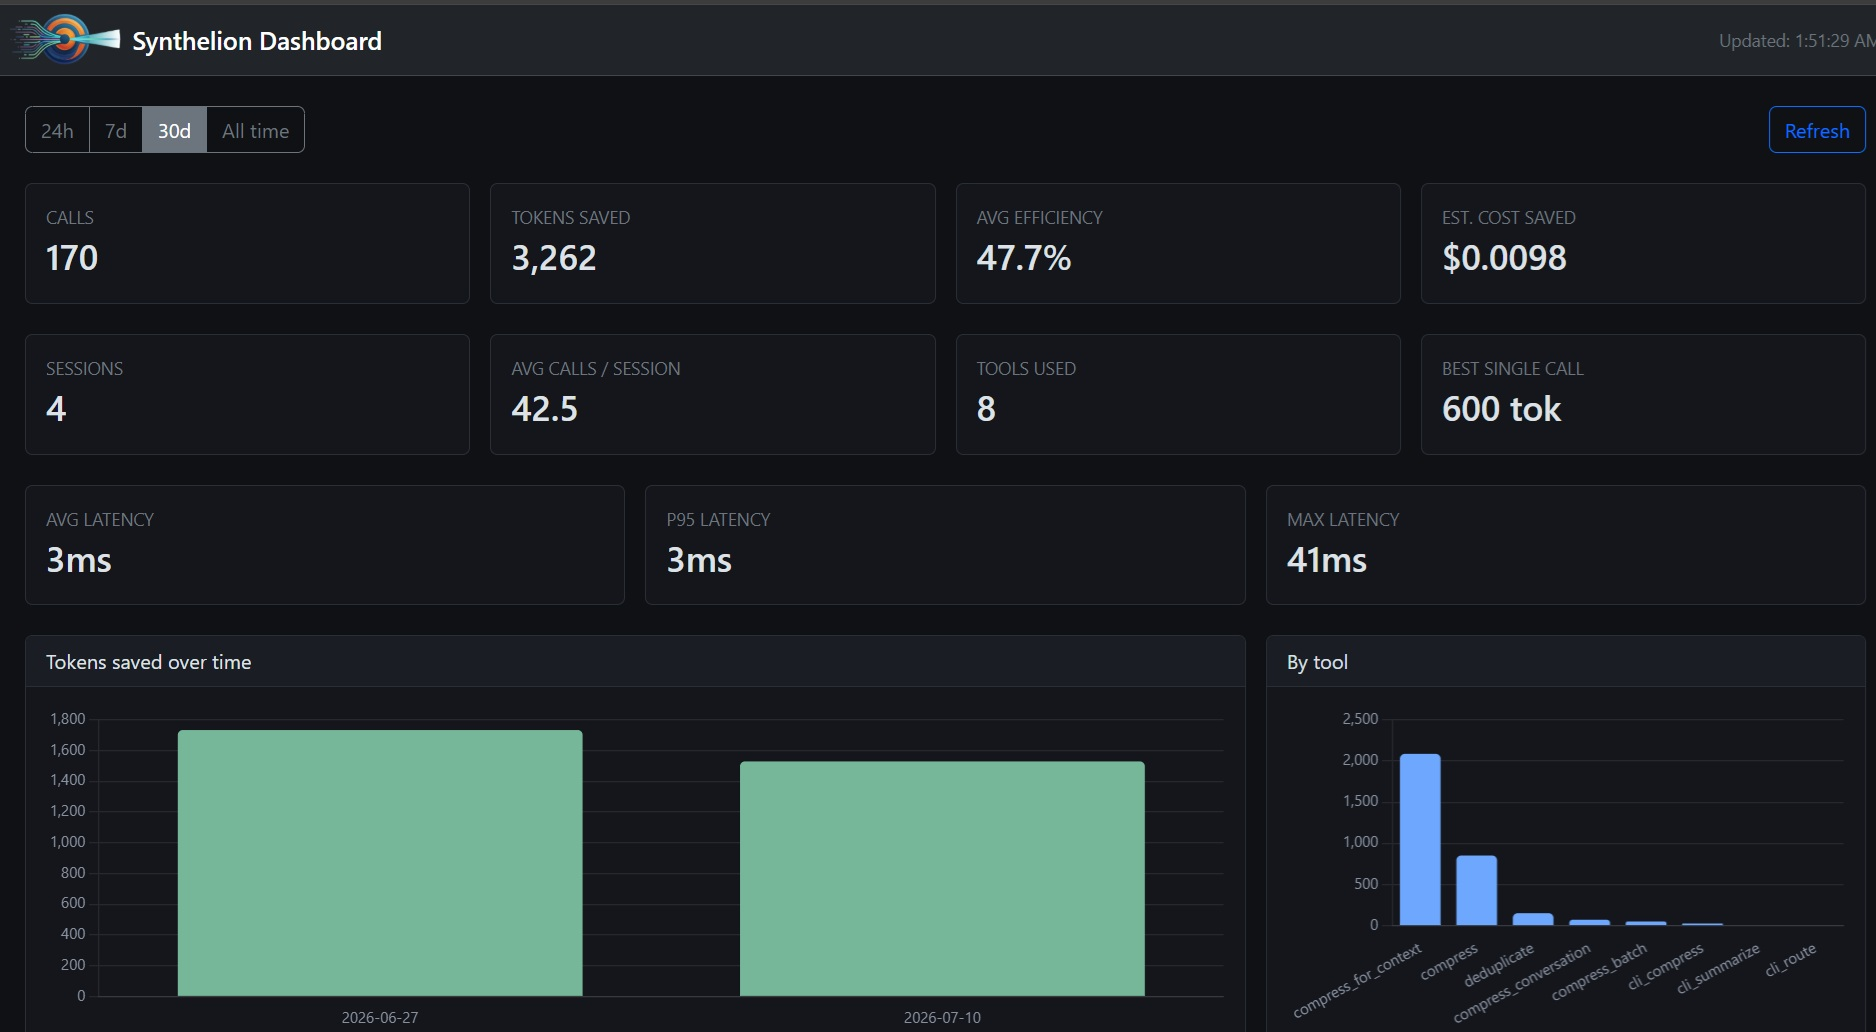
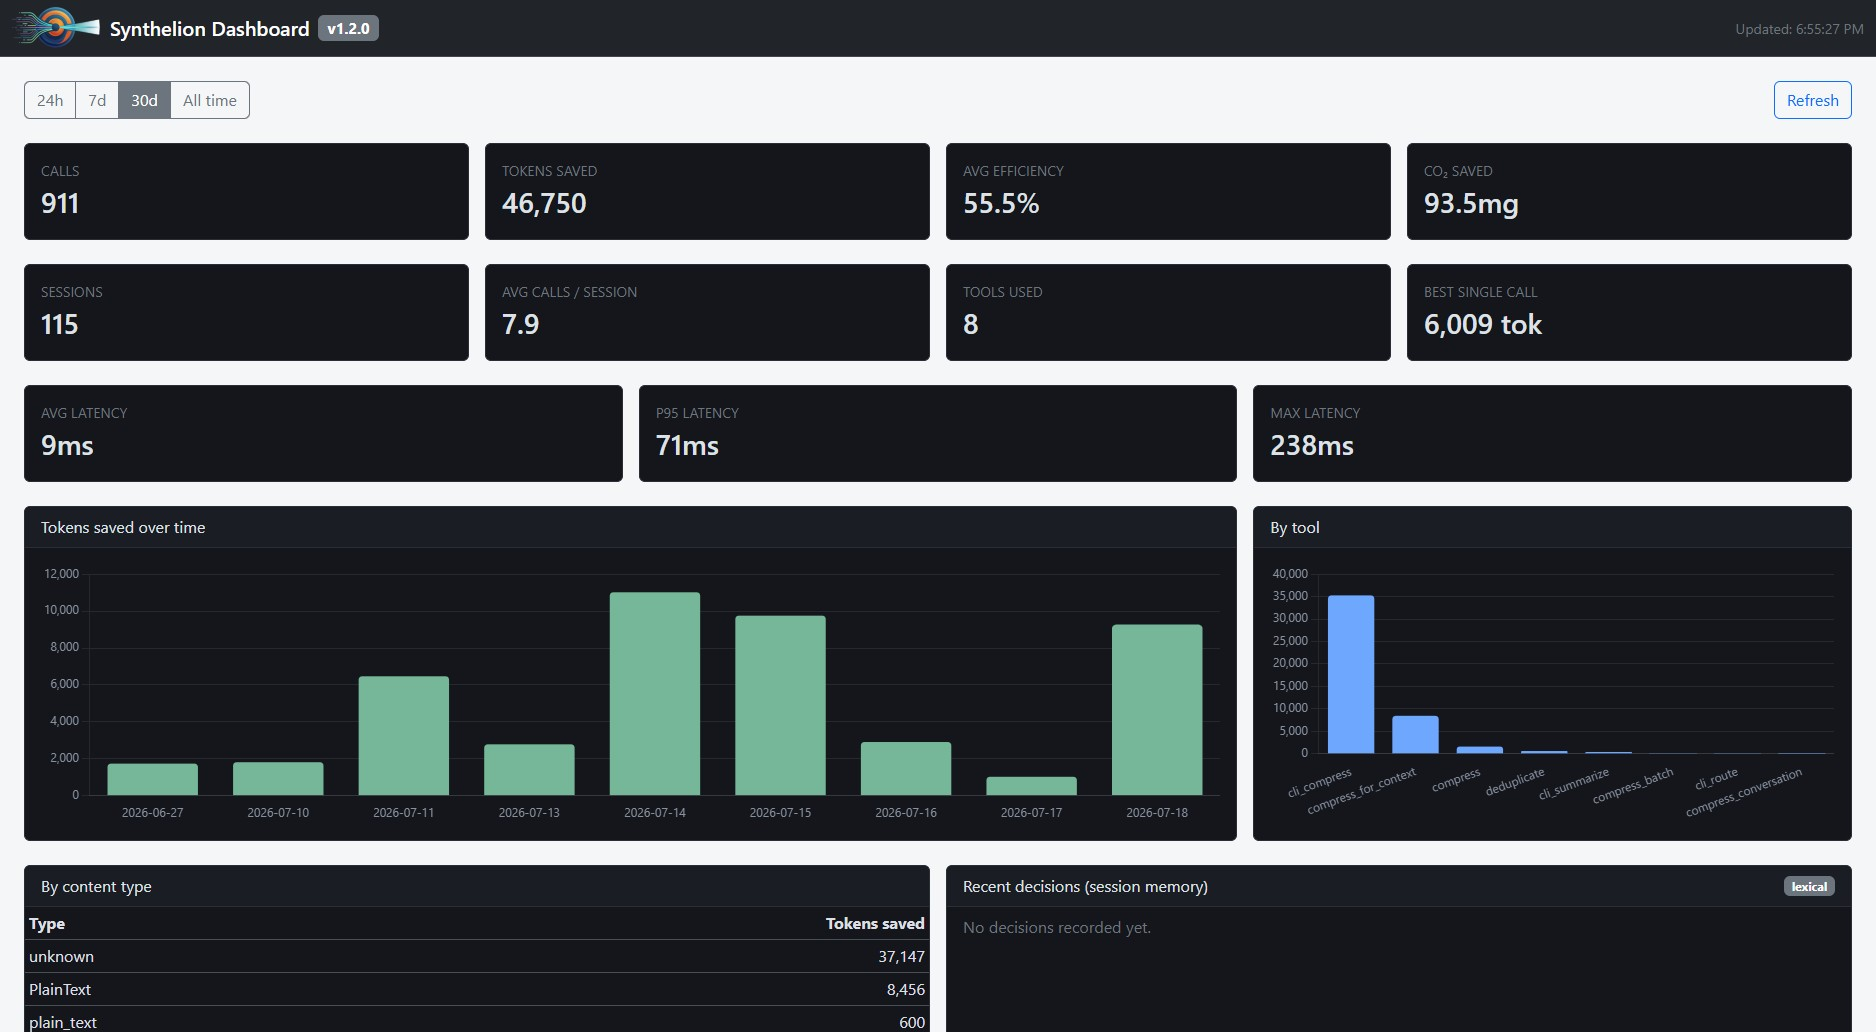
updated readme and screenshot

diff --git a/README.md b/README.md
@@ -346,7 +346,7 @@ Claude will call the MCP tool and return the compressed version.
 
 ## Automatic prompt compression — Claude Code hook
 
-> **How it works:** every prompt longer than 200 characters is automatically compressed by Synthelion and the compressed version is injected as `additionalContext` for Claude. Claude receives both the original prompt and the compressed form and can use the compressed version to save reasoning tokens.
+> **How it works:** every prompt longer than 200 characters is automatically compressed by Synthelion. The compressed text is injected as `additionalContext` for Claude (invisible in the terminal — that's the part that actually does the token-saving work), while a short `systemMessage` — `[Synthelion N% saved - X mWh - Y mg CO2 saved]` — is shown visibly so you can confirm it fired.
 
 ### Automatic setup (recommended)
 
@@ -369,7 +369,7 @@ synthelion install --local  # project-local .claude/settings.json
           {
             "type": "command",
             "shell": "powershell",
-            "command": "$j=[Console]::In.ReadToEnd()|ConvertFrom-Json;$p=$j.prompt;if($p -and $p.Length -gt 200){$r=($p| & synthelion compress --json 2>$null)|ConvertFrom-Json;if($r -and $r.efficiency_pct -gt 15){$pct=[Math]::Round($r.efficiency_pct);$ctx='[Synthelion '+$pct+'% saved] '+$r.compressed;@{hookSpecificOutput=@{hookEventName='UserPromptSubmit';additionalContext=$ctx}}|ConvertTo-Json -Compress}}",
+            "command": "$j=[Console]::In.ReadToEnd()|ConvertFrom-Json;$p=$j.prompt;if($p -and $p.Length -gt 200){$r=($p| & \"synthelion\" compress --json 2>$null)|ConvertFrom-Json;if($r -and $r.efficiency_pct -gt 15){$pct=[Math]::Round($r.efficiency_pct);$label='[Synthelion '+$pct+'% saved - '+$r.energy_mwh+' mWh - '+$r.co2_mg+' mg CO2 saved]';@{systemMessage=$label;hookSpecificOutput=@{hookEventName='UserPromptSubmit';additionalContext=$r.compressed}}|ConvertTo-Json -Compress}}",
             "statusMessage": "Compressing prompt...",
             "timeout": 15
           }
@@ -394,7 +394,7 @@ synthelion install --local  # project-local .claude/settings.json
           {
             "type": "command",
             "shell": "bash",
-            "command": "prompt=$(cat | python3 -c \"import sys,json; print(json.load(sys.stdin).get('prompt',''))\"); if [ ${#prompt} -gt 200 ]; then r=$(printf '%s' \"$prompt\" | synthelion compress --json 2>/dev/null); if [ -n \"$r\" ]; then out=$(printf '%s' \"$r\" | python3 -c \"import sys,json; d=json.load(sys.stdin); eff=int(d.get('efficiency_pct',0)); ctx='[Synthelion '+str(eff)+'% saved] '+d.get('compressed_text',''); print(json.dumps({'hookSpecificOutput':{'hookEventName':'UserPromptSubmit','additionalContext':ctx}})) if eff>15 else None\"); [ -n \"$out\" ] && printf '%s' \"$out\"; fi; fi",
+            "command": "prompt=$(cat | python3 -c \"import sys,json; print(json.load(sys.stdin).get('prompt',''))\"); if [ ${#prompt} -gt 200 ]; then r=$(printf '%s' \"$prompt\" | \"synthelion\" compress --json 2>/dev/null); if [ -n \"$r\" ]; then out=$(printf '%s' \"$r\" | python3 -c \"import sys,json; d=json.load(sys.stdin); eff=int(d.get('efficiency_pct',0)); label='[Synthelion '+str(eff)+'% saved - '+str(d.get('energy_mwh',0))+' mWh - '+str(d.get('co2_mg',0))+' mg CO2 saved]'; print(json.dumps({'systemMessage':label,'hookSpecificOutput':{'hookEventName':'UserPromptSubmit','additionalContext':d.get('compressed','')}})) if eff>15 else None\"); [ -n \"$out\" ] && printf '%s' \"$out\"; fi; fi",
             "statusMessage": "Compressing prompt...",
             "timeout": 15
           }
@@ -868,16 +868,24 @@ svc = CompressionService()
 
 # Semantic (default) — removes stop words and lemmatizes
 r = svc.compress(
-    "I would like to know if it is possible to receive information about cheap restaurants in Rome.",
+    "I would like to know if it is possible to receive information about cheap restaurants in Rome, please.",
     CompressionLevel.SEMANTIC,
 )
-print(r.compressed_text)      # know possible receive information cheap restaurant Rome
-print(f"{r.efficiency_pct:.1f}% saved")   # 65.0% saved
+print(r.compressed_text)      # like know possible receive information about cheap restaurant Rome
+print(f"{r.efficiency_pct:.1f}% saved")   # 55.0% saved
 print(f"{r.original_tokens} → {r.compressed_tokens} tokens")
 
 # Aggressive — also removes generic verbs and adjectives
 r = svc.compress("The important thing is to find a good and reliable solution.", CompressionLevel.AGGRESSIVE)
-print(r.compressed_text)      # important find reliable solution
+print(r.compressed_text)      # solution
+
+# Statistical — TF-IDF word scoring instead of curated dictionaries
+r = svc.compress(
+    "I would like to know if it is possible to receive information about cheap "
+    "restaurants in Rome, please. The city has many wonderful places to eat.",
+    CompressionLevel.STATISTICAL,
+)
+print(r.compressed_text)      # like possible receive information about cheap restaurant Rome city wonderful eat
 
 # Explicit language (skip auto-detection)
 r = svc.apply_compression(
@@ -885,7 +893,7 @@ r = svc.apply_compression(
     iso3="deu",
     level=CompressionLevel.SEMANTIC,
 )
-print(r.compressed_text)      # Kaffee
+print(r.compressed_text)      # gerne kaffee bitten
 
 # Batch — compress many prompts at once
 results = svc.compress_batch(